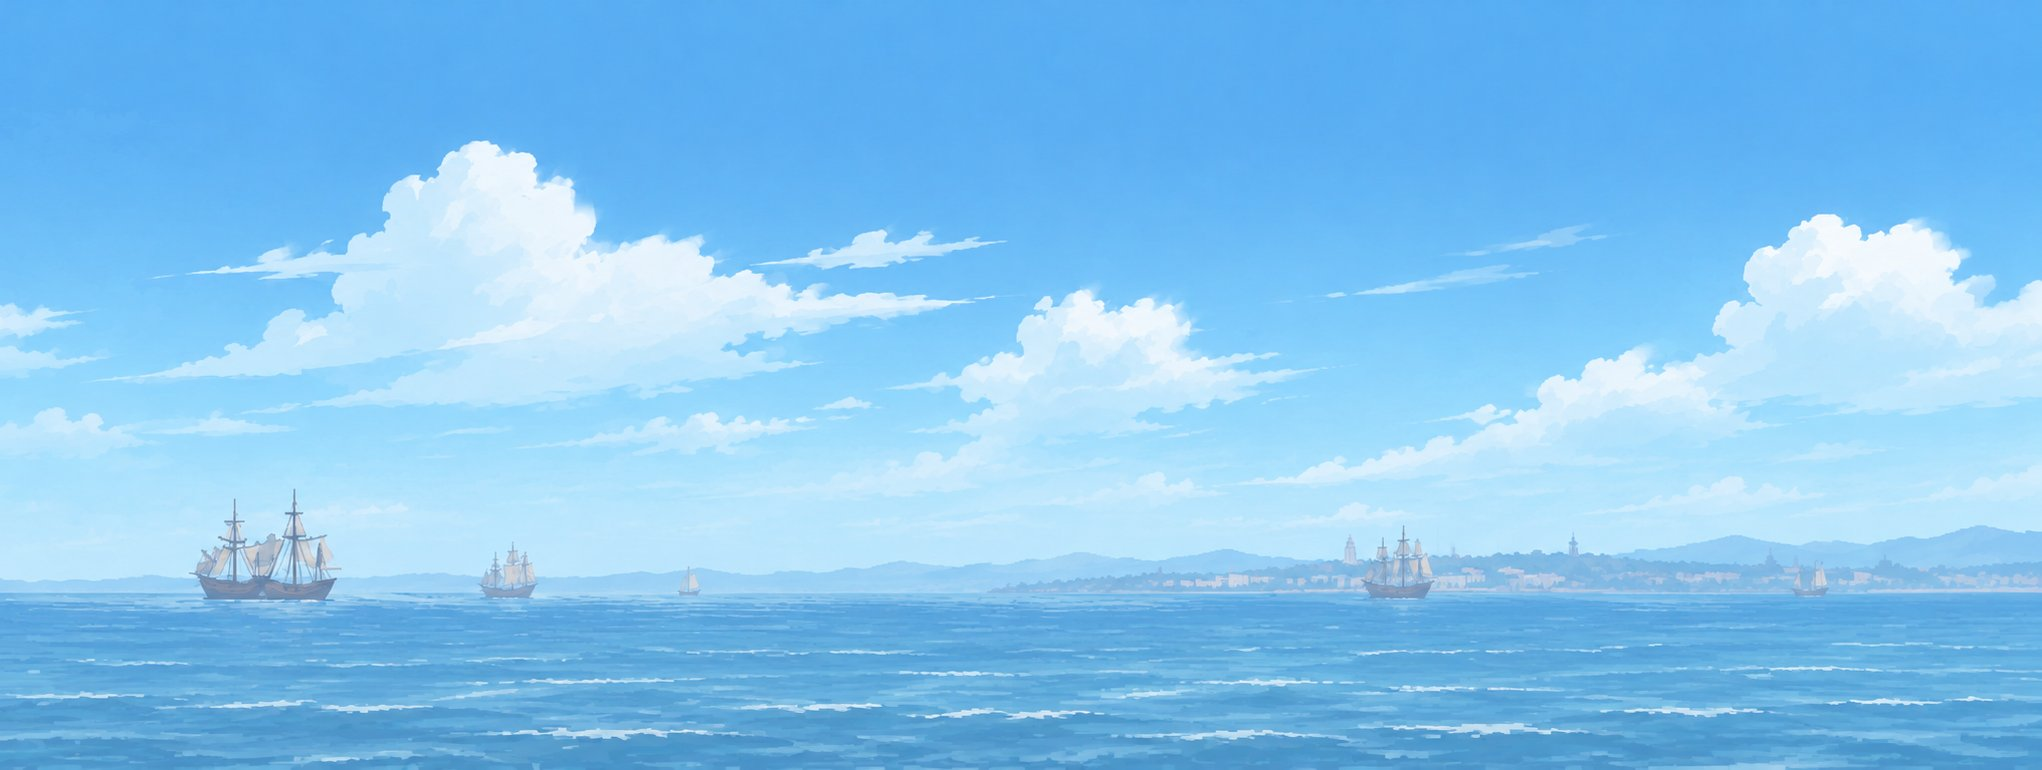
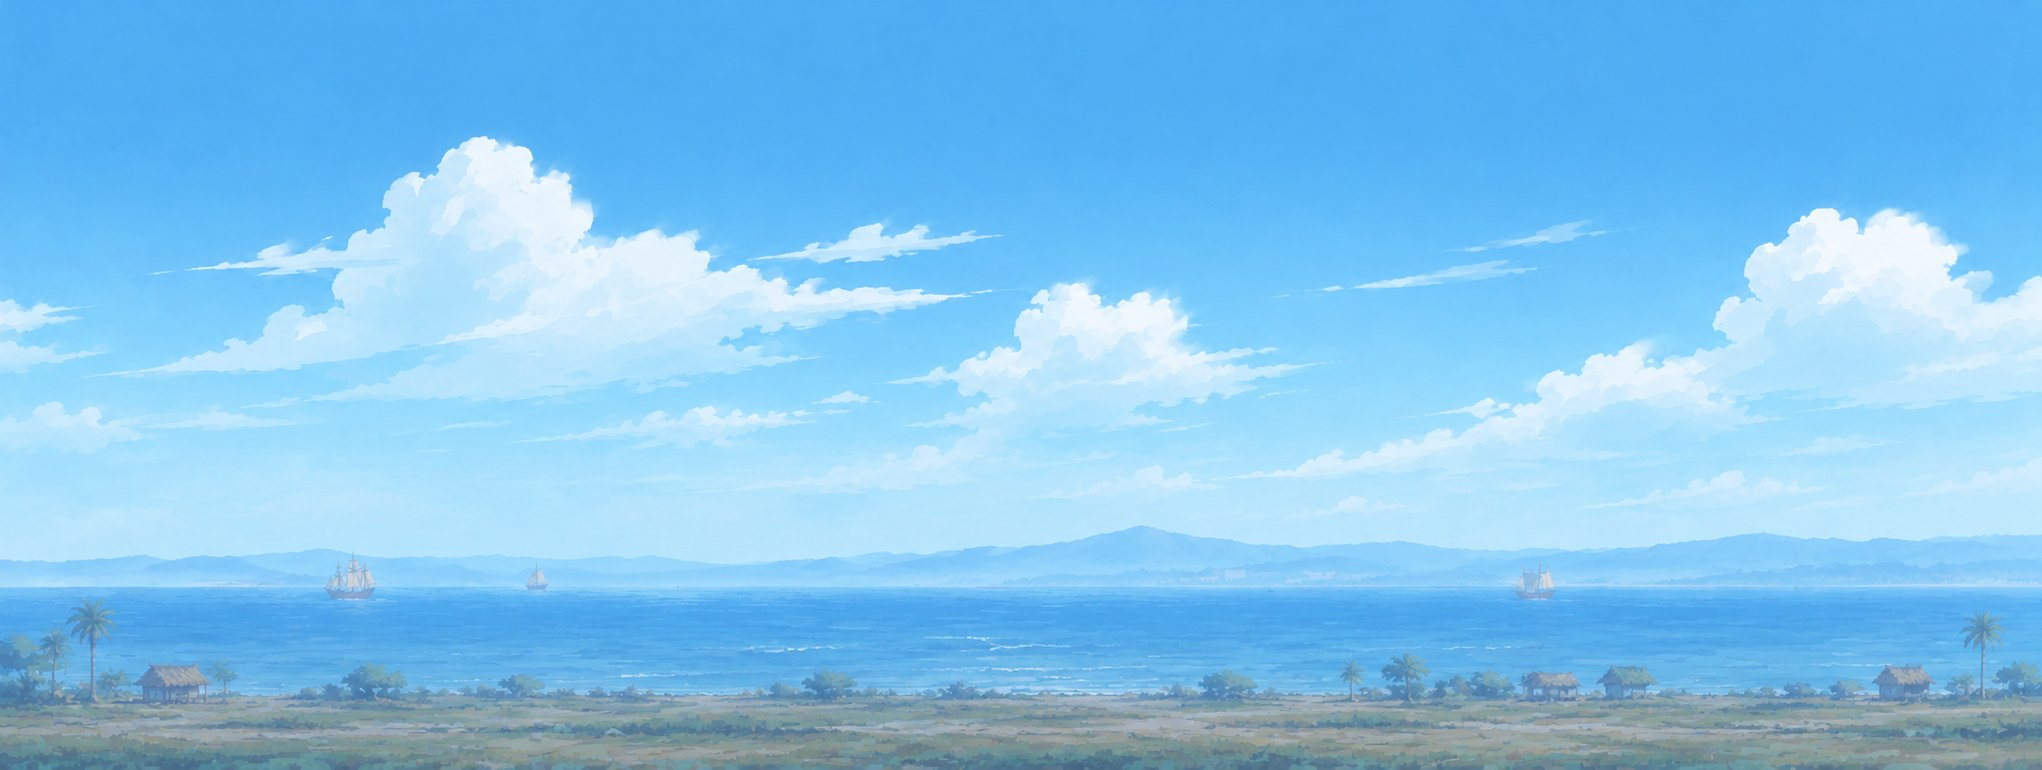
replaced the bckgrounds

diff --git a/js/game.js b/js/game.js
@@ -1460,7 +1460,8 @@ function buildShadowTree(scene, x, i) {
 // the road (frontGrass). Anyone a student reaches stays at the road's
 // speed. The working model is _dev/parallax-test.html.
 //
-// A layer: { src, rate, height, lift, trim, filter, offset }. height is
+// A layer: { src, rate, height, lift, trim, filter, offset }, or items
+// in place of src (separate pictures placed along it). height is
 // the share of the screen the picture is drawn at, repeated left to
 // right; lift how far above the screen's bottom it stands; trim the
 // share of the picture's height that is empty under its ground, which
@@ -1491,9 +1492,15 @@ function buildLayeredBackdrop(scene) {
     // The trim is a share of the picture, so of this element's height,
     // and bottom's percentage is of the skyline's: one calc either way.
     el.style.bottom = `calc(${spec.lift || 0}px - ${((spec.trim || 0) * height * 100).toFixed(2)}%)`;
-    loadImage(spec.src); // Block 62
-    el.style.backgroundImage = cssAssetUrl(spec.src);
+    if (spec.src) {
+      loadImage(spec.src); // Block 62
+      el.style.backgroundImage = cssAssetUrl(spec.src);
+    }
     if (spec.offset) el.style.backgroundPositionX = spec.offset + "px";
+    // Or separate pictures placed along it (items: { src, x, scale },
+    // x in the layer's own length), standing on its bottom: single trees
+    // with the bay showing between them.
+    (spec.items || []).forEach((item) => el.appendChild(placedPicture(item, "layer-item", "0px")));
     if (spec.filter) el.style.filter = spec.filter;
     layer.appendChild(el);
     actElements.push(el);
@@ -1501,16 +1508,7 @@ function buildLayeredBackdrop(scene) {
   });
 
   (scene.buildings || []).forEach((b) => {
-    const el = document.createElement("div");
-    el.className = "street-building";
-    el.style.left = b.x + "px";
-    el.style.bottom = `calc(var(--ground-level) + ${b.lift || 0}px)`;
-    loadImage(b.src).then((img) => {
-      if (!img || !el.isConnected) return;
-      el.style.width = Math.round(img.naturalWidth * (b.scale || 1)) + "px";
-      el.style.height = Math.round(img.naturalHeight * (b.scale || 1)) + "px";
-      el.style.backgroundImage = cssAssetUrl(b.src);
-    });
+    const el = placedPicture(b, "street-building", `calc(var(--ground-level) + ${b.lift || 0}px)`);
     layer.appendChild(el);
     actElements.push(el);
   });
@@ -1529,6 +1527,22 @@ function buildLayeredBackdrop(scene) {
 
   panelJoins(scene).forEach((x, i) => buildShadowTree(scene, x, i));
   lastCameraX = null; // drawCamera places the layers on the next frame
+}
+
+// A picture placed by x at its own size times scale, its bottom at
+// bottom; sized once it has loaded.
+function placedPicture(spec, className, bottom) {
+  const el = document.createElement("div");
+  el.className = className;
+  el.style.left = spec.x + "px";
+  el.style.bottom = bottom;
+  loadImage(spec.src).then((img) => {
+    if (!img || !el.isConnected) return;
+    el.style.width = Math.round(img.naturalWidth * (spec.scale || 1)) + "px";
+    el.style.height = Math.round(img.naturalHeight * (spec.scale || 1)) + "px";
+    el.style.backgroundImage = cssAssetUrl(spec.src);
+  });
+  return el;
 }
 
 // Each layer is held at its share of the camera's travel: the world

diff --git a/content/act1.js b/content/act1.js
@@ -73,16 +73,31 @@ const STREET_WIDTH = STREET_PANEL_COUNT * PANEL; // 14500
 
 // Block 142. Since 22 Oct 2026 the street is drawn in layers (game.js,
 // LAYERED STREETS) rather than the paintings above, which Acts II to IV
-// still use: the sky, the tree line twice (far and pale, near and tall),
-// Tondo's houses, doors and props along the road, its dirt underfoot,
-// and the shadow trees where the joins were, so everyone keeps standing
-// clear of a trunk. The tree picture's bottom 7% is empty (trim).
+// still use: the sky over Manila Bay with its near shore, two rows of
+// single trees (far, small and pale, standing on that shore; near, tall,
+// behind the houses) with the bay showing between them, Tondo's houses,
+// doors and props along the road, its dirt underfoot, and the shadow
+// trees where the joins were, so everyone keeps standing clear of a
+// trunk. The sky stands 50 up so its shore shows over the road.
+const TONDO_TREES = ["niyog", "mangga", "niyog-dalawa", "akasya", "niyog-hilig",
+  "kawayan", "saging", "niyog", "punong-maliit", "mangga", "niyog-hilig", "akasya"];
+// A row of trees along a layer's own length: the twelve above in turn,
+// spaced unevenly (gap, plus up to spread more) so no rhythm shows.
+const treeRow = (length, gap, spread, scale, start) => {
+  const row = [];
+  for (let i = 0, x = start; x < length; i++) {
+    const name = TONDO_TREES[i % TONDO_TREES.length];
+    row.push({ src: `assets/sprites/trees/${name}.png`, x, scale });
+    x += gap + ((i * 137) % 100) / 100 * spread;
+  }
+  return row;
+};
 const TONDO_LAYERS = [
-  { src: "assets/backgrounds/layers/tondo-sky.jpg", rate: 0 },
-  { src: "assets/backgrounds/layers/tondo-trees.png", rate: 0.3, height: 0.5, lift: 100, trim: 0.07,
-    filter: "saturate(0.6) brightness(1.12) contrast(0.8)" },
-  { src: "assets/backgrounds/layers/tondo-trees.png", rate: 0.6, height: 0.95, lift: 64, trim: 0.07,
-    filter: "saturate(1.1) contrast(1.05)", offset: 700 },
+  { src: "assets/backgrounds/layers/tondo-sky.jpg", rate: 0, lift: 50 },
+  { rate: 0.3, lift: 64, items: treeRow(7000, 230, 260, 0.42, 40),
+    filter: "saturate(0.55) brightness(1.1) contrast(0.8)" },
+  { rate: 0.6, lift: 60, items: treeRow(11400, 420, 520, 1, 200),
+    filter: "saturate(1.05)" },
 ];
 const TONDO_GROUND = { src: "assets/backgrounds/layers/dirt-ground.png", lip: 14 };
 

diff --git a/_dev/tests/test.js b/_dev/tests/test.js
@@ -6145,7 +6145,7 @@ const visible = (page, sel) => page.evaluate((s) => {
 
     // A slow painting: the title's bar shows it, and a student who taps
     // in early waits on a screen that says so, not on an empty road.
-    const slow = await rawPage([["**/tondo-trees.png*", async (route) => {
+    const slow = await rawPage([["**/trees/mangga.png*", async (route) => {
       if (route.request().method() !== "GET") return route.continue();
       await new Promise((r) => setTimeout(r, 2500));
       return route.continue();
@@ -6223,7 +6223,7 @@ const visible = (page, sel) => page.evaluate((s) => {
     // slow, and Subukan ulit lets it through the moment it is back.
     let deploying = true;
     let lagAsks = 0;
-    const lag = await rawPage([["**/tondo-trees.png*", (route) => {
+    const lag = await rawPage([["**/trees/mangga.png*", (route) => {
       if (route.request().method() !== "GET") return route.continue();
       lagAsks++;
       return deploying ? route.fulfill({ status: 404, body: "Not Found" }) : route.continue();
@@ -6233,7 +6233,7 @@ const visible = (page, sel) => page.evaluate((s) => {
     await lag.page.click("#shell-guest");
     await lag.page.waitForTimeout(2600);
     const g1 = await lag.page.evaluate(() => {
-      const e = [...assetLoads.entries()].find(([u]) => /tondo-trees\.png/.test(u));
+      const e = [...assetLoads.entries()].find(([u]) => /mangga\.png/.test(u));
       return { state: e && e[1].state, shell: Shell.state,
         slow: !document.getElementById("shell-loading-slow").classList.contains("hidden"),
         retry: !document.getElementById("shell-loading-retry").classList.contains("hidden"),
@@ -6247,7 +6247,7 @@ const visible = (page, sel) => page.evaluate((s) => {
     await lag.page.click("#shell-loading-retry");
     for (let i = 0; i < 40 && (await lag.page.evaluate(() => Shell.state)) !== "playing"; i++) await lag.page.waitForTimeout(100);
     const g2 = await lag.page.evaluate(() => {
-      const e = [...assetLoads.entries()].find(([u]) => /tondo-trees\.png/.test(u));
+      const e = [...assetLoads.entries()].find(([u]) => /mangga\.png/.test(u));
       return { state: e && e[1].state, shell: Shell.state, pending: Game.assetProgress() };
     });
     ok("Subukan ulit tries at once, and once it is back he goes in with every picture there",

diff --git a/js/asset-manifest.js b/js/asset-manifest.js
@@ -64,7 +64,6 @@ window.ASSET_MANIFEST = [
   "assets/backgrounds/act4/selda.jpg",
   "assets/backgrounds/layers/dirt-ground.png",
   "assets/backgrounds/layers/tondo-sky.jpg",
-  "assets/backgrounds/layers/tondo-trees.png",
   "assets/fonts/OFL-press-start-2p.txt",
   "assets/fonts/OFL-vt323.txt",
   "assets/fonts/press-start-2p.woff2",
@@ -186,6 +185,14 @@ window.ASSET_MANIFEST = [
   "assets/sprites/player/macario-walk.png",
   "assets/sprites/scenery/silya-barbero.png",
   "assets/sprites/scenery/tahian.png",
+  "assets/sprites/trees/akasya.png",
+  "assets/sprites/trees/kawayan.png",
+  "assets/sprites/trees/mangga.png",
+  "assets/sprites/trees/niyog-dalawa.png",
+  "assets/sprites/trees/niyog-hilig.png",
+  "assets/sprites/trees/niyog.png",
+  "assets/sprites/trees/punong-maliit.png",
+  "assets/sprites/trees/saging.png",
 ];
 
 window.ASSET_VERSIONS = {
@@ -243,8 +250,7 @@ window.ASSET_VERSIONS = {
   "assets/backgrounds/act4/patyo.jpg": "1735950791",
   "assets/backgrounds/act4/selda.jpg": "3485017595",
   "assets/backgrounds/layers/dirt-ground.png": "307452694",
-  "assets/backgrounds/layers/tondo-sky.jpg": "2473514762",
-  "assets/backgrounds/layers/tondo-trees.png": "2134842543",
+  "assets/backgrounds/layers/tondo-sky.jpg": "3615432616",
   "assets/fonts/OFL-press-start-2p.txt": "4148598631",
   "assets/fonts/OFL-vt323.txt": "654610319",
   "assets/fonts/press-start-2p.woff2": "2276167082",
@@ -366,4 +372,12 @@ window.ASSET_VERSIONS = {
   "assets/sprites/player/macario-walk.png": "3025687395",
   "assets/sprites/scenery/silya-barbero.png": "3668138000",
   "assets/sprites/scenery/tahian.png": "4136712883",
+  "assets/sprites/trees/akasya.png": "2171520168",
+  "assets/sprites/trees/kawayan.png": "1413187901",
+  "assets/sprites/trees/mangga.png": "4194258598",
+  "assets/sprites/trees/niyog-dalawa.png": "254211052",
+  "assets/sprites/trees/niyog-hilig.png": "4107068259",
+  "assets/sprites/trees/niyog.png": "45976621",
+  "assets/sprites/trees/punong-maliit.png": "3198602280",
+  "assets/sprites/trees/saging.png": "1856589935",
 };

diff --git a/index.html b/index.html
@@ -4,7 +4,7 @@
   <meta charset="UTF-8" />
   <meta name="viewport" content="width=device-width, initial-scale=1.0, user-scalable=no" />
   <title>MACARIO</title>
-  <link rel="stylesheet" href="css/style.css?v=1437709384" />
+  <link rel="stylesheet" href="css/style.css?v=2648258672" />
 </head>
 <body>
   <!-- ICON SPRITE.
@@ -638,14 +638,14 @@
   <script src="js/supabaseClient.js?v=2770937222"></script>
   <script src="content/enemies.js?v=3266858457"></script>
   <script src="content/people.js?v=1607945421"></script>
-  <script src="content/act1.js?v=3356372938"></script>
+  <script src="content/act1.js?v=3872542402"></script>
   <script src="content/act2.js?v=3716487980"></script>
   <script src="content/act3.js?v=1524616740"></script>
   <script src="content/act4.js?v=209445227"></script>
   <script src="content/items.js?v=1936794751"></script>
   <script src="content/questions.js?v=3416852880"></script>
-  <script src="js/asset-manifest.js?v=2424307225"></script>
-  <script src="js/game.js?v=3265665732"></script>
+  <script src="js/asset-manifest.js?v=2256889006"></script>
+  <script src="js/game.js?v=458568142"></script>
   <script src="js/acts.js?v=49959917"></script>
   <script src="js/inventory.js?v=1012480451"></script>
   <script src="js/assessment.js?v=3475551511"></script>

diff --git a/teacher.html b/teacher.html
@@ -382,7 +382,7 @@
   <script src="content/enemies.js?v=3266858457"></script>
   <script src="content/people.js?v=1607945421"></script>
   <script src="content/items.js?v=1936794751"></script>
-  <script src="content/act1.js?v=3356372938"></script>
+  <script src="content/act1.js?v=3872542402"></script>
   <script src="content/act2.js?v=3716487980"></script>
   <script src="content/act3.js?v=1524616740"></script>
   <script src="content/act4.js?v=209445227"></script>

diff --git a/css/style.css b/css/style.css
@@ -302,7 +302,8 @@ html, body {
   pointer-events: none;
   will-change: transform;
 }
-.street-building {
+.street-building,
+.layer-item {
   position: absolute;
   background-repeat: no-repeat;
   background-size: 100% 100%;

diff --git a/DECISIONS.md b/DECISIONS.md
@@ -6247,6 +6247,14 @@ lit doorway and the drawn door agree. And Act I alone for now: Acts II
 to IV keep the paintings until their doors are checked against the
 same layout, so a change to Act I cannot move a door in another act.
 
+The same day the proponent found the tree line overwhelming, a wall of
+forest that hid the bay, and asked for the sea with land in front of
+it and single trees, as in a side-scroller he showed: the far picture
+(sky, Manila Bay, mountains, a near shore with small trees and huts,
+tondo-nature-1) and a sheet of eight single trees (tondo-palms), placed
+in two rows along their layers (items), the far row small and pale on
+the shore, the near row tall behind the houses, the bay between them.
+
 ## Moved from CLAUDE.md (Block 110, Scan S36)
 
 History taken out of CLAUDE.md, word for word, so the file every

diff --git a/ART.md b/ART.md
@@ -573,9 +573,11 @@ barberya (4), the pulungan's back door (5).
 Done and in the game. Nothing here needs drawing.
 
     Backgrounds
-        Act I     Tondo's sky, tree line and dirt road (tondo-nature,
-                  tondo-trees, and dirt-ground cut from tondo-road, in
-                  _dev/parallax-art/), the street
+        Act I     Tondo's sky over the bay (tondo-nature-1), its eight
+                  trees (tondo-palms), and dirt-ground cut from
+                  tondo-road (in _dev/parallax-art/; the first sky and
+                  the forest, tondo-nature and tondo-trees, set aside
+                  on 22 Oct 2026), the street
                   (street-01 to street-04), the road
                   (ground-lupa), the inside of the theatre
                   (entablado-inside), the Katipunan's secret room

diff --git a/CLAUDE.md b/CLAUDE.md
@@ -954,7 +954,9 @@ _dev/parallax-test.html is the working model; it opens from the folder
 too (file://), with parallax-art/shadow-trees.js, a copy of game.js's
 shadow trees, standing in when the page cannot read game.js.
 In a scene: layers (each { src, rate, height, lift, trim, filter,
-offset }, in the skyline layer so night and memory tint them),
+offset }, or items in place of src: single pictures { src, x, scale }
+placed along the layer, as Tondo's trees are; in the skyline layer so
+night and memory tint them),
 buildings ({ src, x, scale, lift }, behind the people), ground: { src,
 lip } (a picture drawn whole at the strip's height, its lip above the
 feet), frontGrass, and panelWidth: the shadow trees stand at every

diff --git a/TRACKER.md b/TRACKER.md
@@ -265,6 +265,9 @@ in this order:
     [x] tondo-nature, tondo-trees (lowland), tondo-houses, tondo-props
     [x] tondo-doors (the buildings Macario goes into; cropped 22 Oct)
     [x] dirt-ground (tondo-road.png, its sky cut off: dirt-ground.png)
+    [x] tondo-nature-1 (the bay, its near shore) and tondo-palms (eight
+        single trees), 22 Oct, replacing tondo-nature and the forest
+        wall of tondo-trees, which hid the bay
     [x] act1-props (the sewing table and the barber's chair, Act I's
         two owed props, in one sheet; tondo-props-1.png, in the game
         since 22 Oct as assets/sprites/scenery/)
